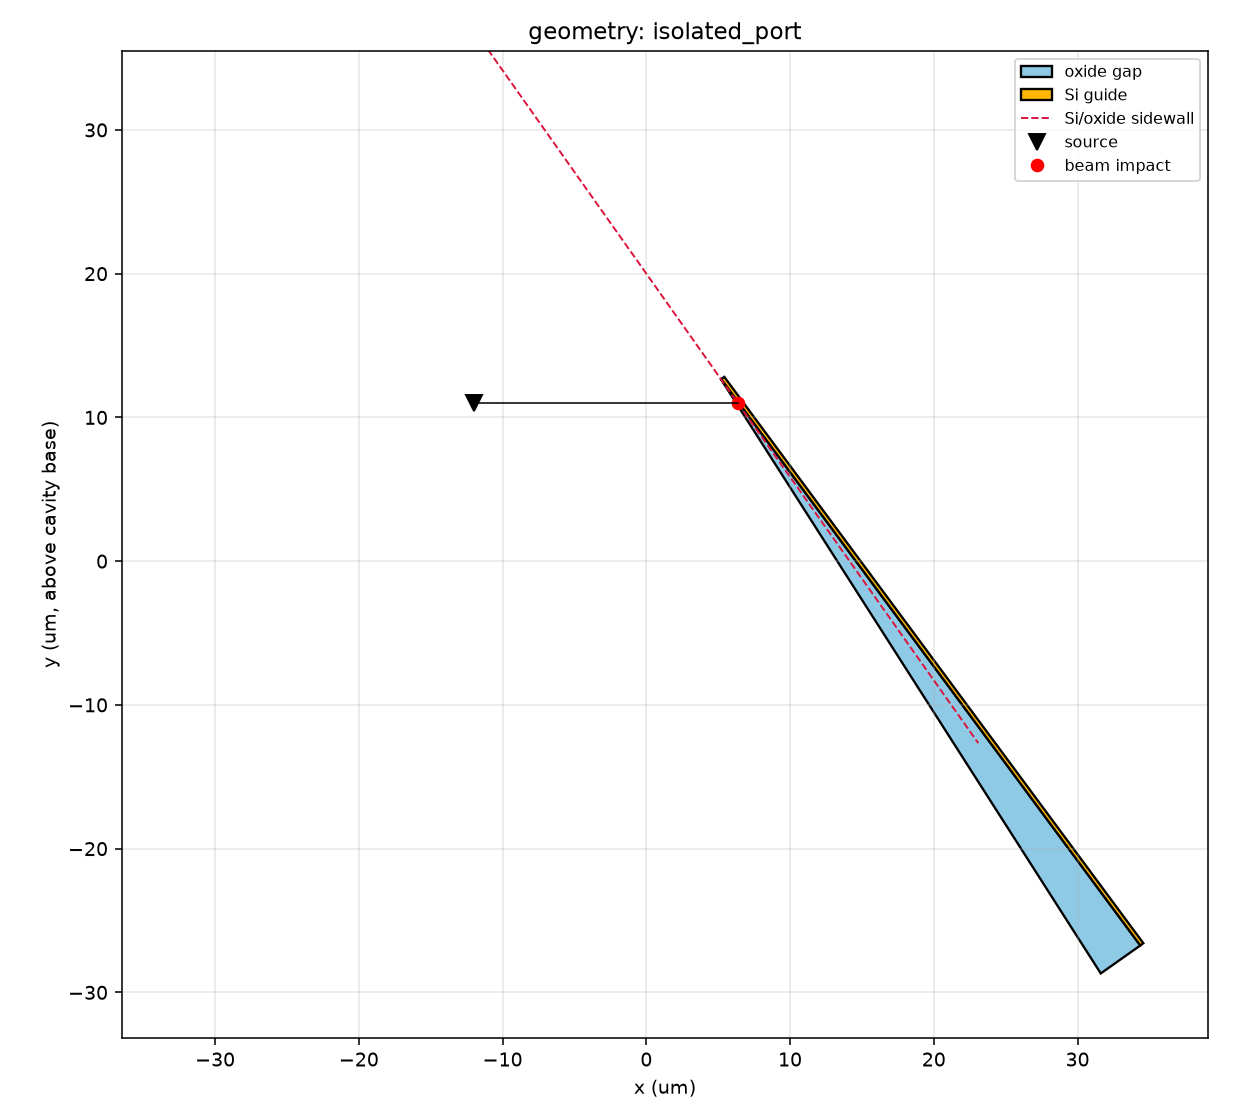
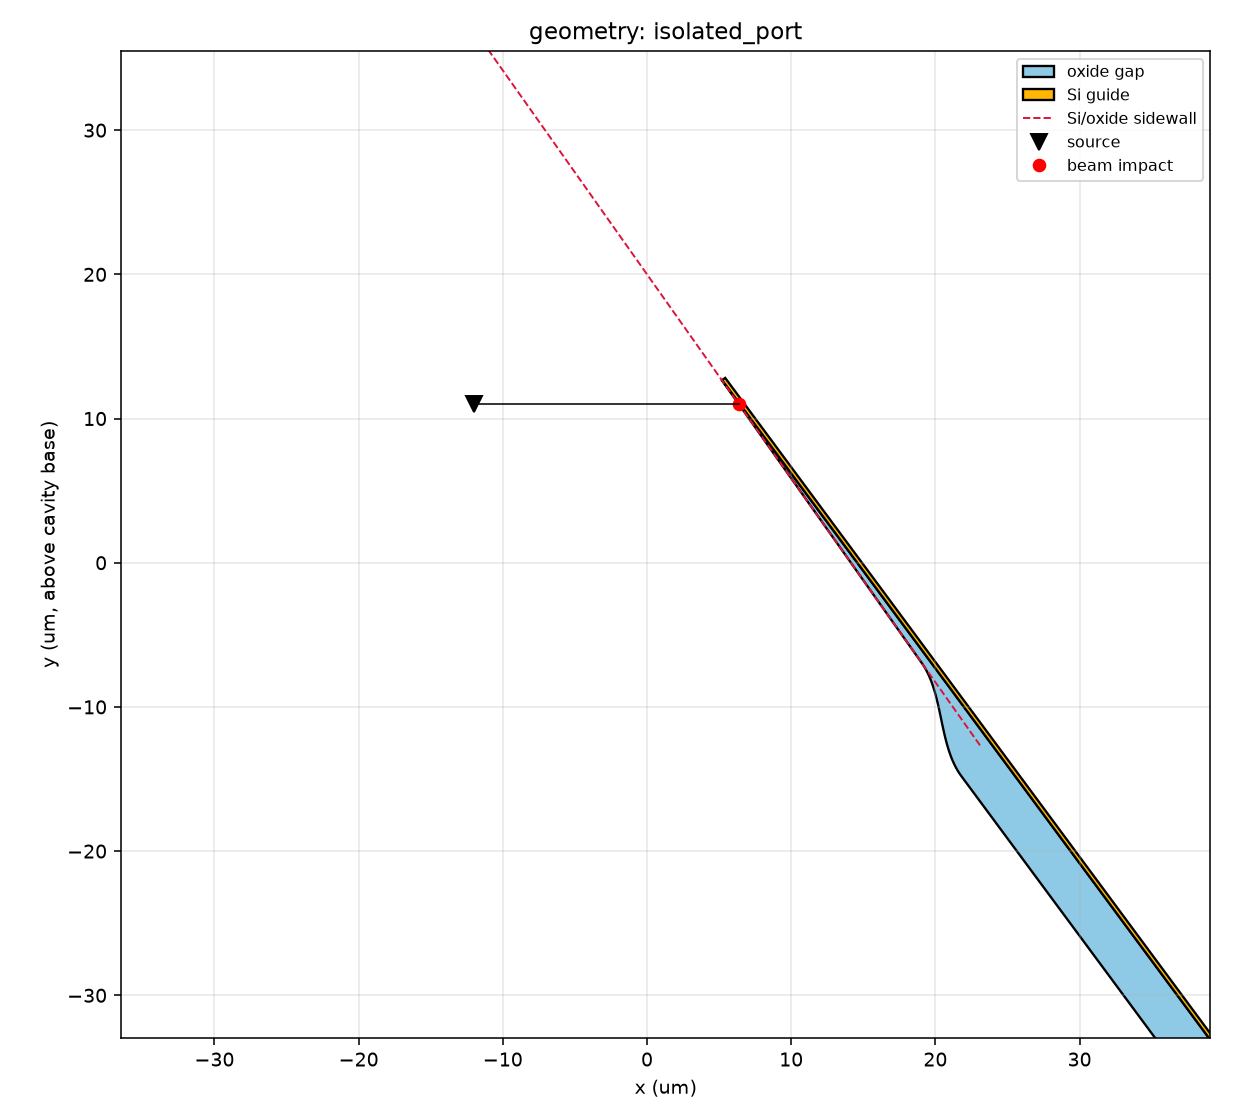
docs: update handoff pointers and isolated-port geometry figure

diff --git a/20260918_volumetric_edge_coupling/reports/R6P1_controlled_comparison_and_mode_export.md b/20260918_volumetric_edge_coupling/reports/R6P1_controlled_comparison_and_mode_export.md
@@ -1,5 +1,36 @@
 # R6-P1: controlled comparison and mode export
 
+## Execution update — 2026-09-21, after fb00885
+
+**Proceed with the two coarse Hz C0/C1 runs after the common-domain initialization checks. Do not wait for a complete localization-based band selector.** C0/C1's primary diagnostic is calibrated fields and net aperture flux, which does not depend on accepting a guide-band identity. Complete the identity metric alongside this work, before labeling any modal coefficient as accepted receiving-guide power or starting reciprocal launch acceptance.
+
+The shared master vertex sequence now addresses the earlier oxide/substrate tessellation mismatch. Still include the exact splice joins in that sequence and verify the initialized dielectric on the common grid; shared vertices remove the interface-sliver problem but do not by themselves certify every sampled geometry detail.
+
+### Interpretation of the new compact mode figures
+
+The inspected Hz and Ez plots show coincident localized profiles in the compact reference and port-stack tests. Accept this as **matched compact-test agreement**. It supports the proposed isolated-port construction, but does not finish identity validation in the full coupler:
+
+- `mode_export_port.py` builds independent rotated blocks centered at the origin. Matching orientation and mesh between these two tests does not automatically match the actual coupler's subcell registration, sampled dielectric, aperture or port position.
+- Its reported overlap is the modulus of a scalar complex inner product of propagated Hz or Ez DFT slices. It is not the prescribed squared full-E/H identity metric, a confinement measurement or a power overlap. Index proximity still chooses the port candidate and isolated band 1 is assumed as the reference.
+- The narrow local eigensolver apertures see matching air/strip/oxide sections and exclude the distant substrate. Equal computed indices are expected for identical local dielectric inputs; by themselves they do not measure loading/leakage of the complete substrate-containing propagation problem. The finite-run profile agreement is useful additional evidence, not a convergence bound.
+- The 60/µm residuals from the analytic indices are consistent with numerical error, but one resolution does not establish their cause or convergence. The next propagation pair uses 25/µm, so numerical reference identity must be checked at that resolution and registration too.
+
+Do not require another full-domain run to resolve these qualifications. Use local actual-port eigenmode export and the fields saved by C0/C1.
+
+### Immediate implementation and acceptance
+
+1. Add the small explicit common-domain override, including common origin/grid registration and a recorded transform from paper coordinates. Apply it consistently to geometry, sources, monitors and homogeneous reference. Extend **both** variants' uniform output materials through the common PML; a larger empty cell around a short nominal guide would create a new facet.
+2. Initialize both and save sampled-material comparisons at the source, beam path, preserved interaction and complete upstream apertures. Include exact join vertices in the shared tessellation. Confirm source frequency/branch, aperture coordinates and timestep from effective settings.
+3. Run C0/C1 at 25/µm, Hz, 1550 nm, with broad s=28/half-span=6, narrow s=31/half-span=2.4, and the narrow downstream port. Keep the old broad s=31 aperture only as a separately labeled diagnostic if useful.
+4. Save complex **Ex, Ey and Hz**, native signed flux, time traces, DFT convergence and actual sampled port dielectric. Preserve raw complex candidate modal coefficients, wavevectors and eigenmode fields where available. Use each run's calibrated incident reference, or one shared reference only when all source/domain/discretization settings match. Put all effective settings and overrides in immutable records.
+5. In the actual uniform-port frame at 25/µm, add the fixed-window strip/substrate participation and full complex-field similarity to a matched isolated reference. Use the prior window/aperture checks and identity criteria; keep index proximity only as a search seed. This step can follow field acquisition, but must precede a guided-power or reciprocity claim.
+
+**C0/C1 is done when:** the comparison identifies whether the discrepancy first appears in illumination, initialized geometry, upstream fields, returning fields, or extraction; incomplete temporal convergence is reported explicitly. A missing modal identity need not prevent finishing this net-flux diagnostic. Record modal quantities as candidates until the separate identity gate passes.
+
+The bounded allocation remains two coarse runs plus the shared incident reference/local initialization and eigenmode checks, sequentially on the local host. No 50/75 full-domain ladder, dense polarization scan or geometry optimization is needed. T02 continues independently.
+
+---
+
 Review date: 2026-09-19. Inspected commits f2364bd/20f161d, `port_multiprobe.py`, current geometry/source/port implementations and the geometry-repair report. No implementation changes or simulations were made by this review.
 
 **Direction:** pursue measurement/comparison isolation first, with initialized-dielectric verification as its first cheap check. Implement complex mode-field export now, initially at a genuinely isolated downstream port. Do not expand the blind band scan or change the transition to recover efficiency. Continue the existing coarse-compute policy and independent T02 work.

diff --git a/20260918_volumetric_edge_coupling/README.md b/20260918_volumetric_edge_coupling/README.md
@@ -2,7 +2,7 @@
 
 Reproduction workspace for **Volumetric Evanescent Edge Coupling for Fiber-to-Chip Optical I/O**, Elshehaby et al., [arXiv:2609.20686v1](https://arxiv.org/abs/2609.20686v1). Initial planning package prepared 2026-09-18 Pacific time. A coding agent has since implemented a running Meep pipeline and provisional results; numerical/physical acceptance is still in progress.
 
-**Current next action:** [Controlled comparison and mode export](reports/R6P1_controlled_comparison_and_mode_export.md). The major port-construction defects have been addressed, but shared boundary tessellation and actual sampled-material verification remain open. The s=31/half-span-6 aperture reaches beyond the splice and measures net signed flux, so 104 versus 2.06 is not a controlled forward-guide comparison. Export the isolated-port fields at s=50 with the narrower aperture, then compare nominal and port structures in one common domain/grid using two coarse Hz runs. Defer full-domain 50/75; T02 continues independently. The [port/channel/overlap decision](reports/R6_port_and_overlap_decision.md) remains the measurement contract. Documentation only; implementation changes remain with the coding agent.
+**Current next action:** [C0/C1 execution update and mode-identity qualification](reports/R6P1_controlled_comparison_and_mode_export.md). Shared boundary tessellation is repaired and compact scalar profiles agree. Proceed with the common-domain initialization checks and two coarse Hz runs; save full active-branch E/H so the actual-port localization metric can be completed alongside them. Compact reference agreement does not yet validate the full coupler's port channel. Keep the 104-versus-2.06 discrepancy labeled net aperture flux. Defer full-domain 50/75; T02 continues independently. The [port/channel/overlap decision](reports/R6_port_and_overlap_decision.md) remains the measurement contract.
 
 **Latest branch decision:** investigate Hz first, with one matched Ez reciprocal control. The previous root-residual and band/frequency indexing defects have been corrected in the inspected implementation; loaded-mode identity and accumulated phase/leakage remain unresolved. [Earlier R5/R6 review](reports/R5_R6_branch_priority.md) records the diagnostic rationale. T02 digitization can proceed independently now.
 

diff --git a/20260918_volumetric_edge_coupling/TODO.md b/20260918_volumetric_edge_coupling/TODO.md
@@ -2,7 +2,7 @@
 
 Start here after reading [PAPER_REVIEW.md](PAPER_REVIEW.md) and [SIMULATION_SPEC.md](SIMULATION_SPEC.md). This file is the handoff to the coding agent. Implementation now exists; unchecked boxes record acceptance still to be evidenced, rather than implying that no implementation work has occurred.
 
-**Current orchestration priority:** [Controlled comparison and mode export](reports/R6P1_controlled_comparison_and_mode_export.md): shared boundary tessellation and initialized-material checks → compact isolated-port complex-mode export at s=50 with narrow aperture → matched C0/C1 coarse Hz runs in one common domain/grid → source, net-flux and feedback diagnosis. The broad s=31 aperture crosses the splice; its native flux is not forward guide power. Defer the full-domain 50/75 ladder. Then resume [R6 port/channel/overlap acceptance](reports/R6_port_and_overlap_decision.md). T02 continues independently with provenance/crossing fixes and digitization; full T09–T11 and 3D remain gated.
+**Current orchestration priority (2026-09-21):** [C0/C1 execution update](reports/R6P1_controlled_comparison_and_mode_export.md): common-domain override and initialized-material checks → two matched coarse Hz runs with full active-branch E/H saved → source, net-flux and feedback diagnosis. Add actual-port full-field identity/localization alongside this work; it gates guided-power interpretation, not acquisition of the net-flux pair. Shared tessellation is repaired; compact scalar-profile agreement is supporting evidence. Defer the full-domain 50/75 ladder. Then resume [R6 port/channel/overlap acceptance](reports/R6_port_and_overlap_decision.md). T02 continues independently.
 
 **Latest R5/R6 allocation:** Hz first, with one matched Ez reciprocal control. Current code addresses the previous root-residual and band/frequency indexing defects; their regression evidence and loaded-mode localization remain to be validated. Do not require completion of the full outgoing-wave R5 solver before R6 if an effectively isolated output port is validated. Hz loading-induced phase matching and the paper's TE mapping remain hypotheses. See the [earlier branch review](reports/R5_R6_branch_priority.md) for context.
 

diff --git a/20260918_volumetric_edge_coupling/reports/R6P1_geometry_repair_status.md b/20260918_volumetric_edge_coupling/reports/R6P1_geometry_repair_status.md
@@ -1,5 +1,7 @@
 # R6-P1 geometry repair status
 
+> **Latest direction (2026-09-21, after fb00885):** Shared master tessellation is now present and the compact scalar mode-profile comparisons agree. [Proceed with C0/C1](R6P1_controlled_comparison_and_mode_export.md) after common-domain initialization checks; finish actual-port full-E/H identity alongside it. The compact res-60 reference does not yet establish the actual coupler's res-25 guide-channel identity. Historical net-flux and mode claims below remain provisional.
+
 > **Review update (2026-09-19):** [Controlled comparison and mode export](R6P1_controlled_comparison_and_mode_export.md) supersedes the interpretation below. The 2.057/~104 readings are net signed flux, not forward guide power; the s=31/half-span-6 aperture spans s≈26.10–35.90 and samples changed downstream material. Downstream reflection can also change upstream fields. Export the narrow isolated-port modes at s=50 and compare both structures in a common cell/grid. Current oxide/substrate boundaries share an analytic function but still use different sampled vertex lists. The earlier large construction defects are addressed; complete sampled-material/port verification remains open.
 
 G1-G4 repaired in `src/geometry.py` / `configs/isolated_port.yaml`.
